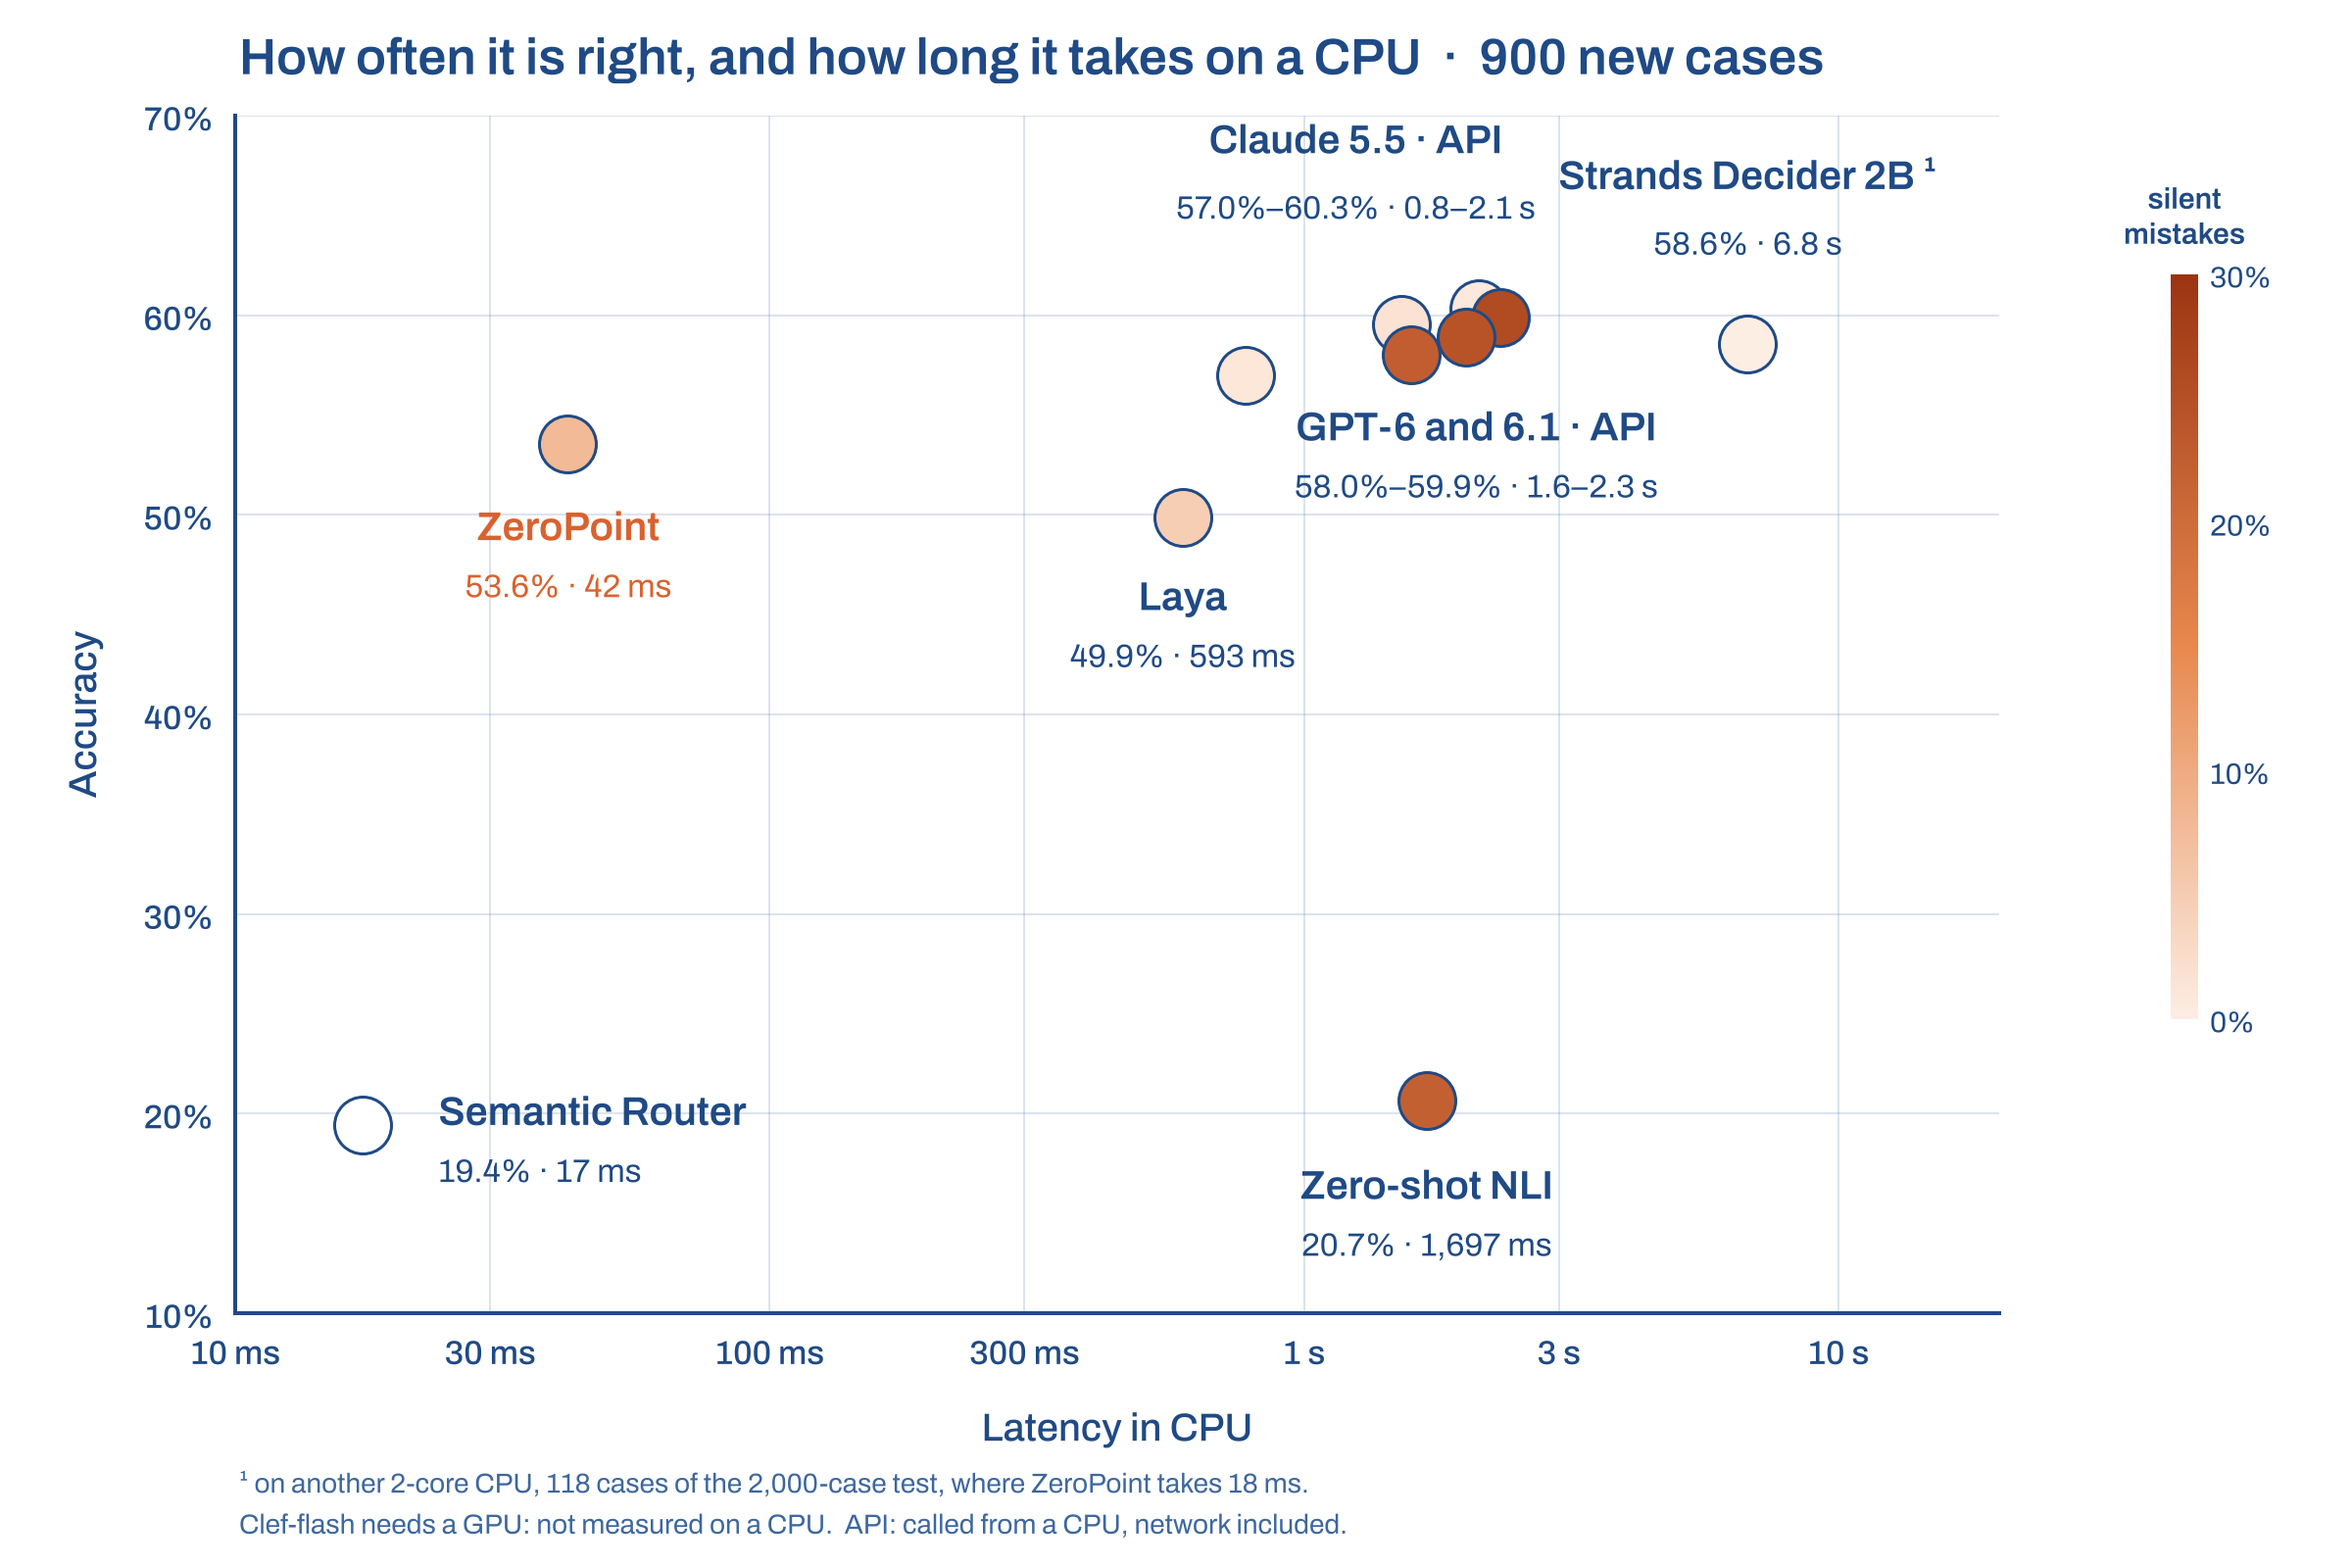
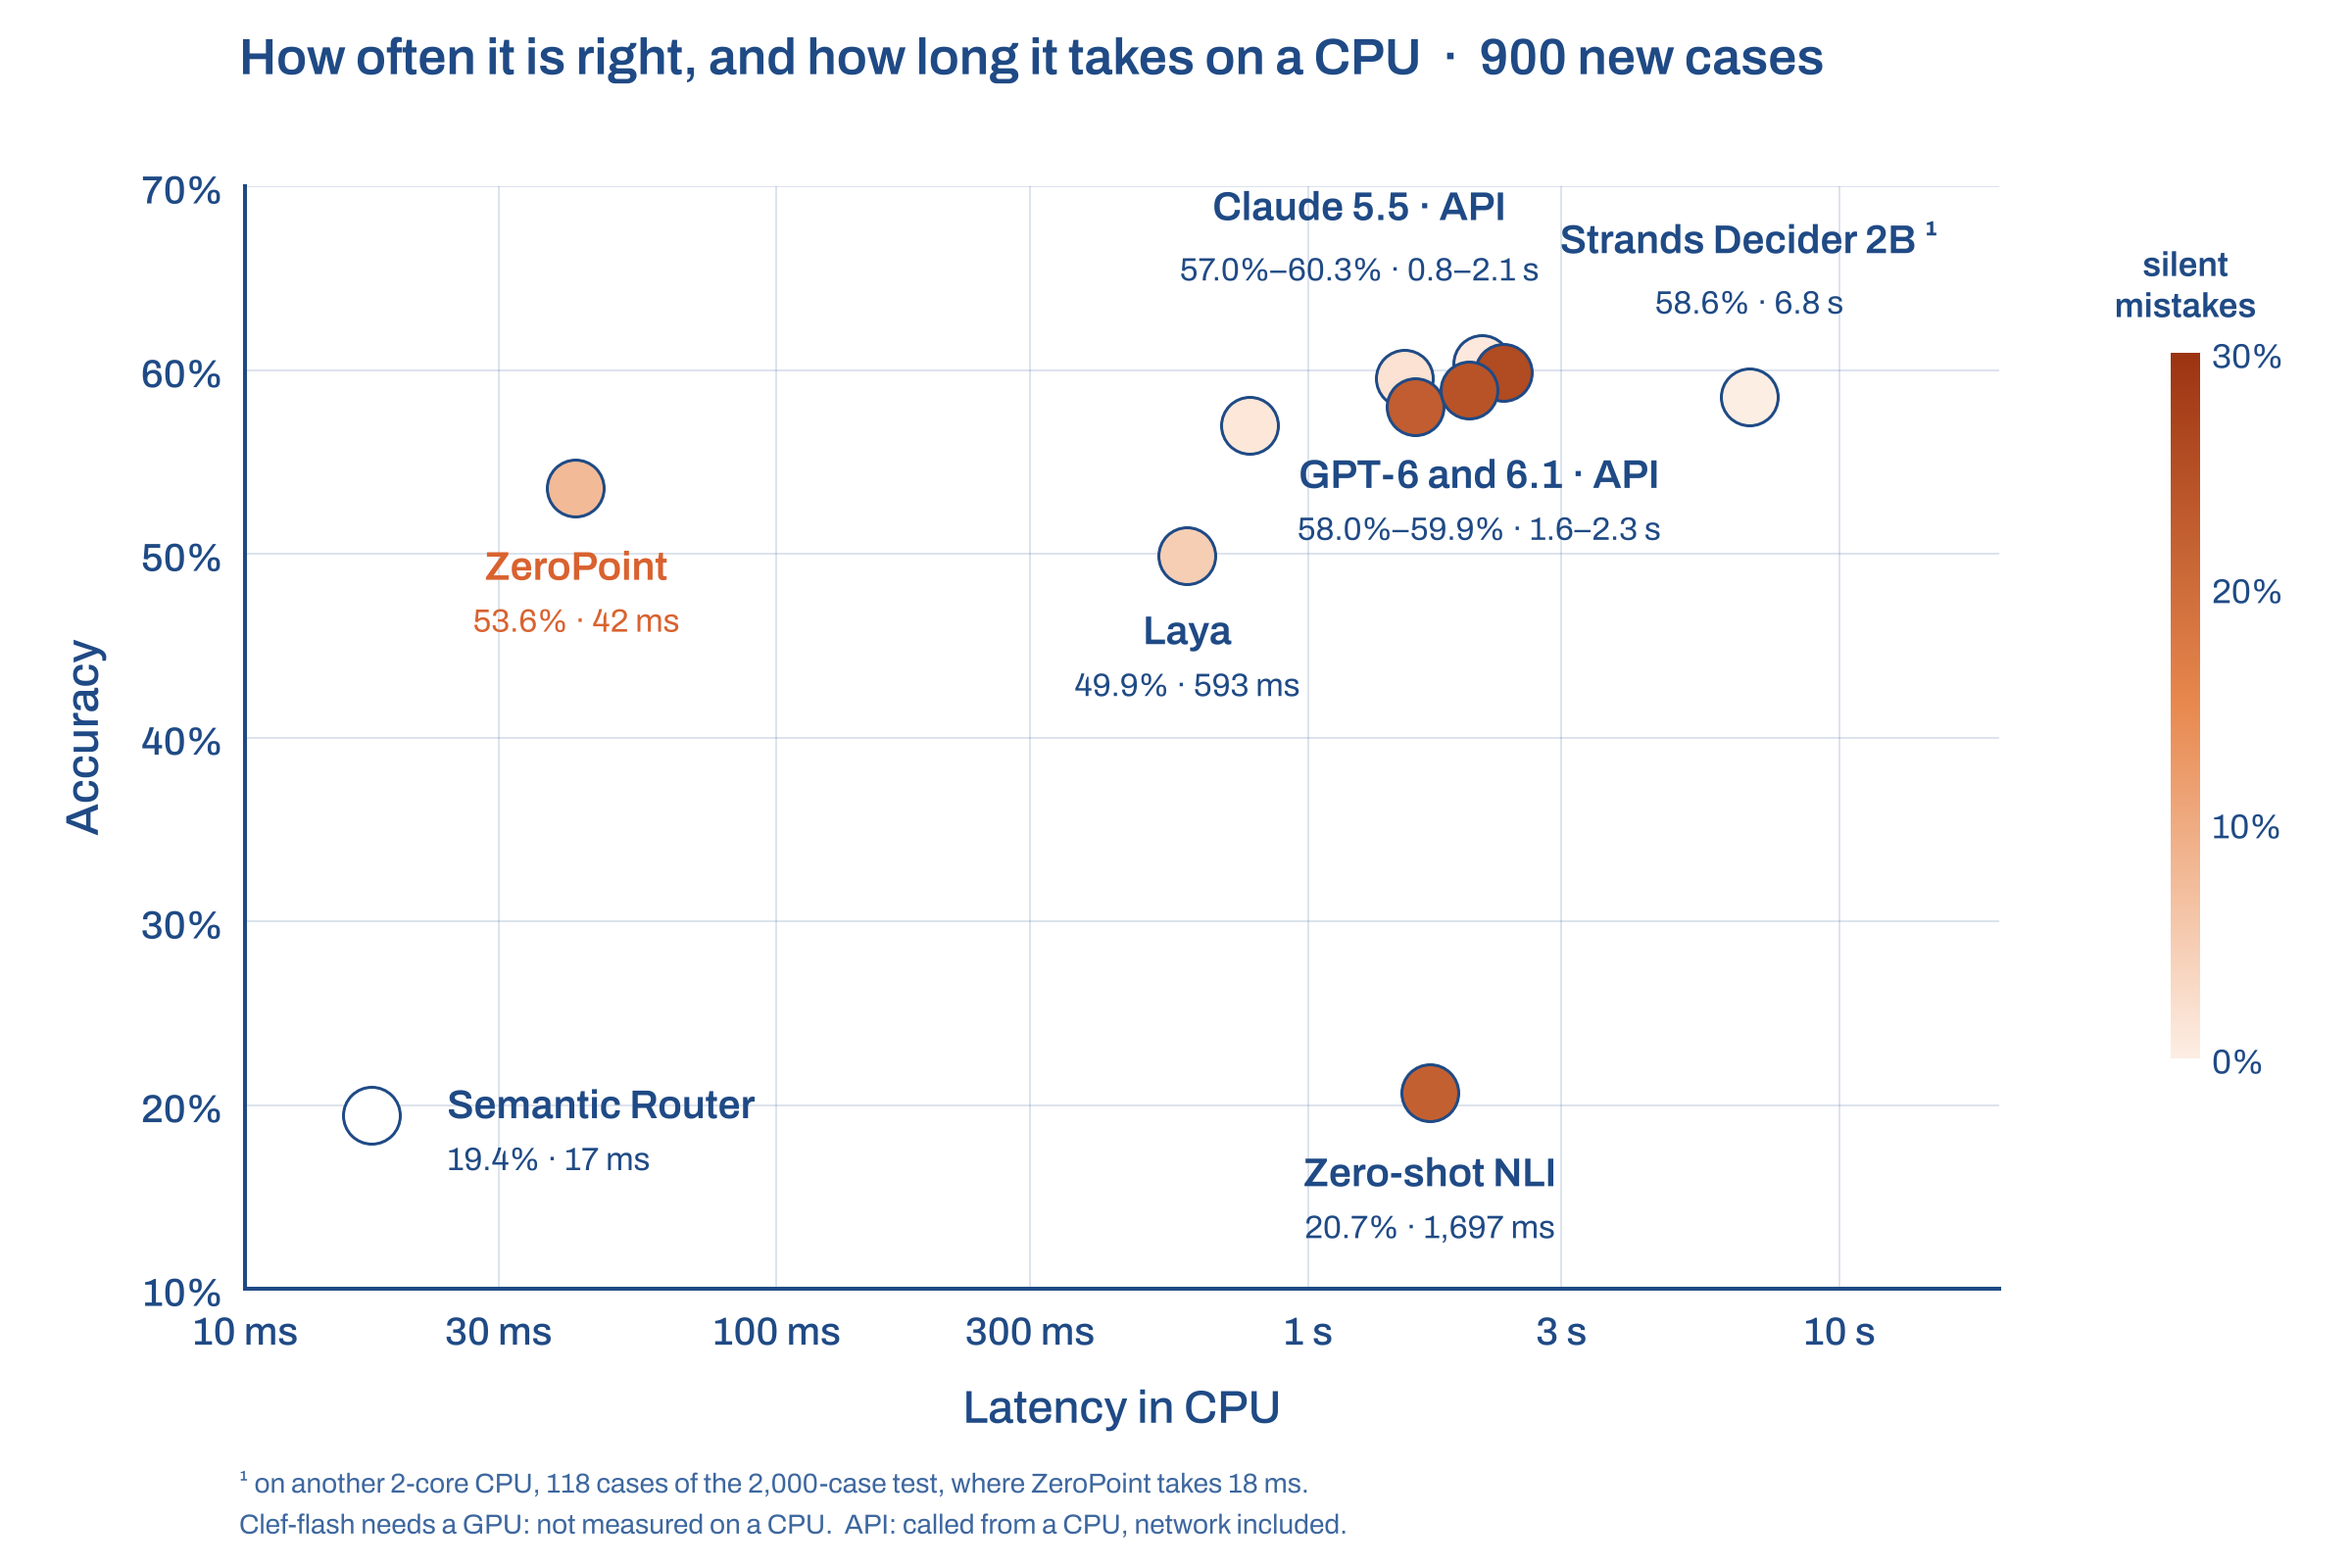
Chart: larger axis and colour-scale fonts, space under the title
Claude-Session: https://claude.ai/code/session_01G8ANiDeU2TrS1f1cqs11jg

diff --git a/benchmarks/compare/chart.py b/benchmarks/compare/chart.py
@@ -54,7 +54,7 @@ def main(summary_path=os.path.join(HERE, "results", "summary.json"),
     C = S["llm_comparison"]["systems"]
 
     fig = plt.figure(figsize=(2400 / DPI, 1600 / DPI), dpi=DPI)
-    ax = fig.add_axes([240 / 2400, 260 / 1600, 1800 / 2400, 1222 / 1600])
+    ax = fig.add_axes([250 / 2400, 285 / 1600, 1790 / 2400, 1125 / 1600])
     ax.set_xscale("log")
     ax.set_xlim(10, 20000)
     ax.set_ylim(0.1, 0.7)
@@ -73,11 +73,11 @@ def main(summary_path=os.path.join(HERE, "results", "summary.json"),
     ax.minorticks_off()
     ax.set_yticks([0.1, 0.2, 0.3, 0.4, 0.5, 0.6, 0.7])
     ax.set_yticklabels(["10%", "20%", "30%", "40%", "50%", "60%", "70%"])
-    ax.tick_params(colors=BLUE, labelsize=px(34), length=0, pad=px(22))
+    ax.tick_params(colors=BLUE, labelsize=px(40), length=0, pad=px(22))
     for t in ax.get_xticklabels() + ax.get_yticklabels():
         t.set_fontweight("medium")
-    ax.set_xlabel("Latency in CPU", fontsize=px(40), color=BLUE, weight="medium", labelpad=px(36))
-    ax.set_ylabel("Accuracy", fontsize=px(40), color=BLUE, weight="medium", labelpad=px(40))
+    ax.set_xlabel("Latency in CPU", fontsize=px(47), color=BLUE, weight="medium", labelpad=px(30))
+    ax.set_ylabel("Accuracy", fontsize=px(47), color=BLUE, weight="medium", labelpad=px(34))
     fig.text(244 / 2400, 1 - 30 / 1600, "How often it is right, and how long it takes on a CPU  ·  900 new cases",
              fontsize=px(52), color=BLUE, weight="semibold", va="top")
 
@@ -119,17 +119,17 @@ def main(summary_path=os.path.join(HERE, "results", "summary.json"),
         label(key, f"{pct(lo)}–{pct(hi)} · {t0 / 1000:.1f}–{t1 / 1000:.1f} s")
 
     # colour scale: silent mistakes
-    cax = fig.add_axes([2215 / 2400, 560 / 1600, 28 / 2400, 760 / 1600])
+    cax = fig.add_axes([2215 / 2400, 520 / 1600, 30 / 2400, 720 / 1600])
     grad = [[i / 255] for i in range(256)]
     cax.imshow(grad, aspect="auto", cmap=SILENT, origin="lower", extent=(0, 1, 0, SILENT_MAX))
     cax.set_xticks([])
     cax.yaxis.tick_right()
     cax.set_yticks([0, 0.1, 0.2, 0.3])
     cax.set_yticklabels(["0%", "10%", "20%", "30%"])
-    cax.tick_params(colors=BLUE, labelsize=px(30), length=0, pad=px(12))
+    cax.tick_params(colors=BLUE, labelsize=px(35), length=0, pad=px(12))
     for sp in cax.spines.values():
         sp.set_visible(False)
-    fig.text(2229 / 2400, (560 + 760 + 24) / 1600, "silent\nmistakes", fontsize=px(30), color=BLUE,
+    fig.text(2230 / 2400, (520 + 720 + 28) / 1600, "silent\nmistakes", fontsize=px(35), color=BLUE,
              weight="semibold", ha="center", va="bottom", linespacing=1.1)
 
     L = S.get("cpu_latency", {})
